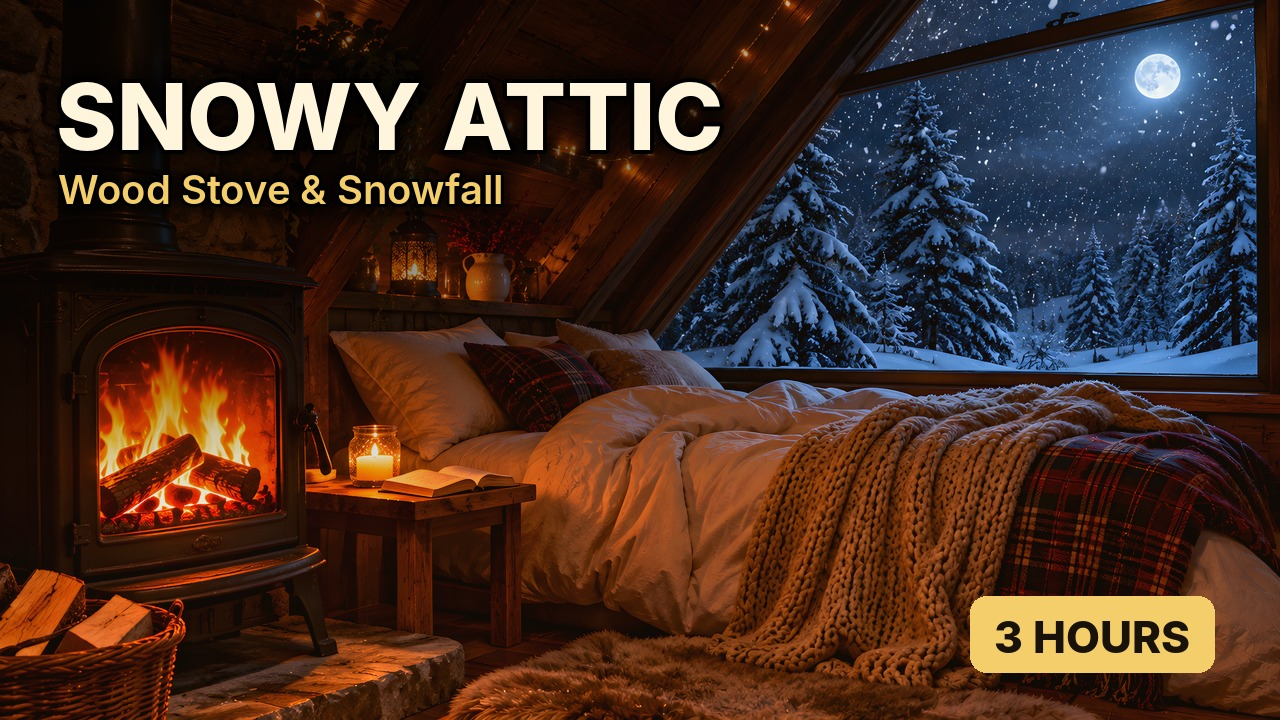
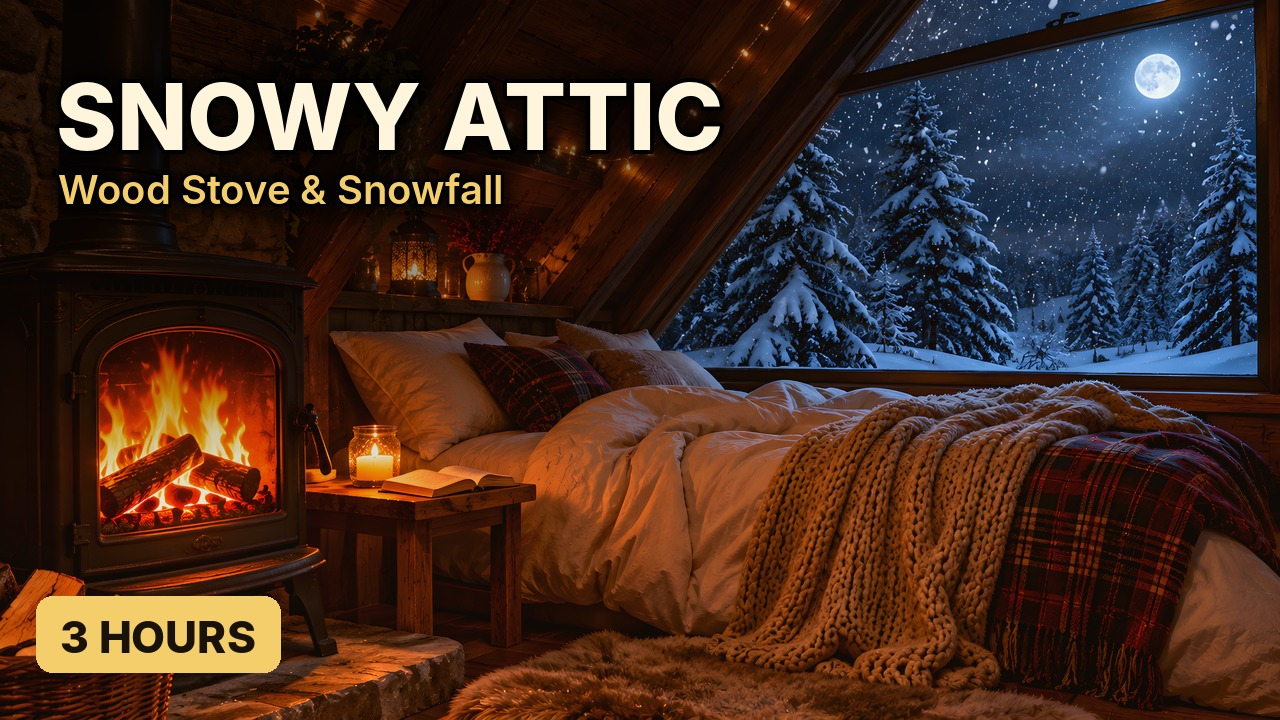
B küçük resim: 3 HOURS etiketi sol alta taşındı (YouTube süre yazısıyla çakışmasın)
Claude-Session: https://claude.ai/code/session_01BaFTGHwpYBEfroc1wrqooK

Changed region(s): [[0.75, 0.825, 0.9688, 0.9472], [0.0312, 0.825, 0.2188, 0.9472]]

diff --git a/dream-window/kapak.py b/dream-window/kapak.py
@@ -1,7 +1,7 @@
 """Her uzun video için 3 küçük resim seçeneği üretir (YouTube Studio > "Test et ve karşılaştır" için).
 
   A  kapak_3saat.jpg     – kanalın alışılmış stili: koyu kutu, altın "3 HOURS", büyük başlık (zaten var, dokunulmaz)
-  B  kapak_3saat_B.jpg   – sade: kutu yok, sol üstte büyük başlık, sıcak ve canlı renkler, köşede "3 HOURS" etiketi
+  B  kapak_3saat_B.jpg   – sade: kutu yok, sol üstte büyük başlık, sıcak ve canlı renkler, sol altta "3 HOURS" etiketi
   C  kapak_3saat_C.jpg   – yakın plan: pencere ve ateş arasına yakınlaşır, başlık altta ortada, ışıltılı alt yazı
 
 Kullanım:  python kapak.py 06-rainy-cafe [08-attic-bedroom ...]    (sahne verilmezse bütün sahneler)
@@ -70,9 +70,9 @@ def secenek_B(kaynak, baslik, alt):
         golgeli_yazi(im, (56, y), s, f1, KREM)
         y += int(f1.size * 1.08)
     golgeli_yazi(im, (58, y + 6), alt, ImageFont.truetype(YARI, 40), ALTIN, golge=8, cizgi=3)
-    rozet = ImageFont.truetype(KALIN, 44)                             # sağ altta "3 HOURS" etiketi
+    rozet = ImageFont.truetype(KALIN, 44)                             # sol altta "3 HOURS" etiketi (sağ altı YouTube'un süre yazısı kapatır)
     w = ciz.textlength("3 HOURS", font=rozet)
-    x0, y0 = G - w - 90, Y - 110
+    x0, y0 = 60, Y - 110
     ImageDraw.Draw(im).rounded_rectangle((x0 - 24, y0 - 14, x0 + w + 24, y0 + 62), radius=16, fill=(244, 206, 106, 240))
     ImageDraw.Draw(im).text((x0, y0), "3 HOURS", font=rozet, fill=(25, 18, 8))
     return im.convert("RGB")
